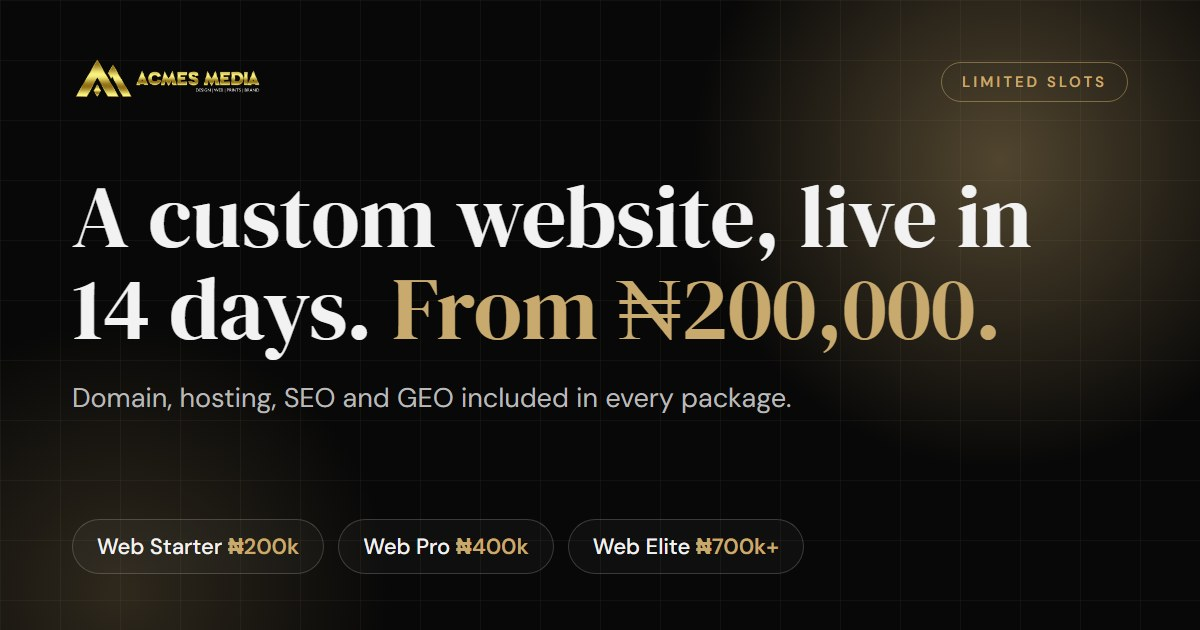
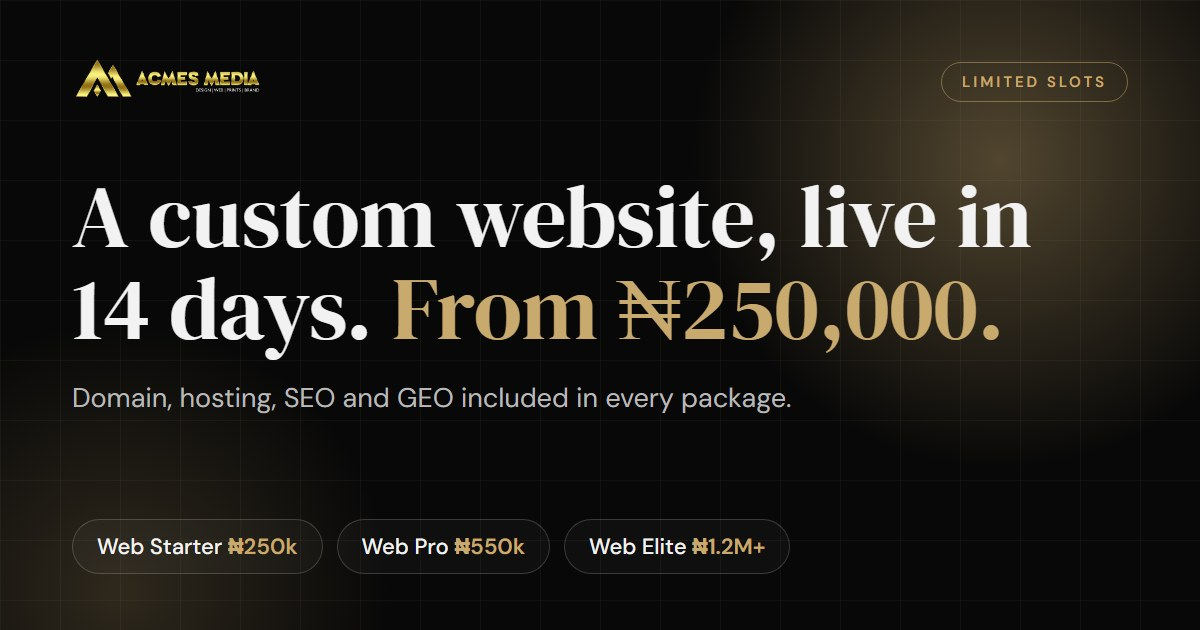
Update package pricing and Elite add-ons
- Starter ₦250k, Pro ₦550k (8 pages), Elite from ₦1.2M
- Elite: 1 hour a month priority support for 6 months; optional add-on names
  listed without prices (e-commerce, chatbot, booking system, CRM)
- FAQ: hourly technical maintenance, add-on scoping, managed services
- Payload handles Elite price without a deposit split
- Refreshed Open Graph share image with the new prices

diff --git a/src/data/sales.js b/src/data/sales.js
@@ -86,12 +86,12 @@ export const packages = [
     tier: 'Starter',
     name: 'Web Starter',
     blurb: 'Your first real web presence, built clean and fast around your brand.',
-    price: '₦200k',
-    priceNgn: 200000,
-    depositNgn: 140000,
-    balanceNgn: 60000,
+    price: '₦250k',
+    priceNgn: 250000,
+    depositNgn: 175000,
+    balanceNgn: 75000,
     delivery: '2 weeks',
-    deposit: 'Deposit to start: ₦140,000',
+    deposit: 'Deposit to start: ₦175,000',
     terms: 'One-time payment. Live in 2 weeks.',
     features: [
       'Up to 5 pages',
@@ -104,17 +104,17 @@ export const packages = [
     id: 'pro',
     tier: 'Most popular',
     name: 'Web Pro',
-    blurb: 'For businesses that need to look established at first glance. Up to 10 pages on a design system built around your brand.',
-    price: '₦400k',
-    priceNgn: 400000,
-    depositNgn: 280000,
-    balanceNgn: 120000,
+    blurb: 'For businesses that need to look established at first glance. Up to 8 pages on a design system built around your brand.',
+    price: '₦550k',
+    priceNgn: 550000,
+    depositNgn: 385000,
+    balanceNgn: 165000,
     delivery: '3 weeks',
-    deposit: 'Deposit to start: ₦280,000',
+    deposit: 'Deposit to start: ₦385,000',
     terms: 'One-time payment. Live in 3 weeks.',
     featured: true,
     features: [
-      'Up to 10 pages',
+      'Up to 8 pages',
       'Custom UI design system',
       'Blog or portfolio section',
       'Sitemap + analytics integration',
@@ -126,8 +126,9 @@ export const packages = [
     tier: 'Full stack',
     name: 'Web Elite',
     blurb: 'Brand identity and website in one engagement, for businesses building something to last.',
-    price: '₦700k+',
-    priceNgn: null,
+    price: '₦1.2M+',
+    priceNgn: 1200000,
+    open: true,
     delivery: 'Scoped on the call',
     deposit: 'Payments agreed on the call',
     terms: 'Custom scope, milestone payments.',
@@ -135,8 +136,14 @@ export const packages = [
       'Full brand identity system',
       'Custom web design + build',
       'Content strategy',
-      'E-commerce ready (optional)',
-      'Priority support for 6 months',
+      'Priority support: 1 hour a month for 6 months',
+    ],
+    // Names only on the page. Prices live in docs/pricing-and-terms.md.
+    addons: [
+      'E-commerce ready',
+      'Chatbot integration',
+      'Automated booking system',
+      'Custom CRM + leads automation',
     ],
   },
 ];
@@ -201,7 +208,7 @@ export const faqs = [
   },
   {
     q: 'Can I edit the site myself after launch?',
-    a: 'Yes. You can change text and images without a developer. For bigger changes, we offer a monthly maintenance plan or one-off updates billed hourly.',
+    a: 'Yes. You can change text and images without a developer. For bigger changes and technical maintenance after launch, we bill by the hour.',
   },
   {
     q: 'How do payments work?',
@@ -209,7 +216,11 @@ export const faqs = [
   },
   {
     q: 'Can you connect my site to WhatsApp, Airtable or AI tools?',
-    a: 'Yes. Acmes Media’s founder, Obaloluwa Adeleke, also builds workflow automations (see the portfolio above). Tell us what you want on the scoping call and we will scope it with you, usually as part of Web Elite.',
+    a: 'Yes. Chatbots, automated booking systems and CRM and lead automations are optional add-ons, usually part of a Web Elite project. Tell us what you need on the scoping call and we will scope and quote it.',
+  },
+  {
+    q: 'Can you run these systems for us after they are built?',
+    a: 'Yes. Acmes Media can manage your booking system, CRM or AI chatbot for you as an ongoing service, so you do not need your own technical person. We agree the scope and the cost with you first.',
   },
   {
     q: 'Why only 10 slots?',
@@ -233,9 +244,9 @@ export const heardOptions = [
 ];
 
 export const packageOptions = [
-  'Web Starter (₦200k)',
-  'Web Pro (₦400k)',
-  'Web Elite (₦700k+)',
+  'Web Starter (₦250k)',
+  'Web Pro (₦550k)',
+  'Web Elite (₦1.2M+)',
   'Not sure yet',
 ];
 

diff --git a/src/pages/Sales.jsx b/src/pages/Sales.jsx
@@ -2,7 +2,7 @@ import { useEffect, useRef, useState } from 'react';
 import { motion, useReducedMotion } from 'framer-motion';
 import { motionTokens } from '@/lib/motion-tokens';
 import useIsDesktop from '@/hooks/useIsDesktop';
-import { ArrowUpRight, Check, Globe, Mail, MessageCircle, Search, Send, Sparkles } from 'lucide-react';
+import { ArrowUpRight, Check, Globe, Mail, MessageCircle, Plus, Search, Send, Sparkles } from 'lucide-react';
 import Seo from '@/components/ui/Seo';
 import RevealWrapper from '@/components/ui/RevealWrapper';
 import HeroReveal from '@/components/ui/HeroReveal';
@@ -49,7 +49,7 @@ export default function Sales() {
   return (
     <div className="min-h-screen bg-bg text-ink">
       <Seo
-        title="Get a Professional Website From ₦200,000 | Acmes Media"
+        title="Get a Professional Website From ₦250,000 | Acmes Media"
         description="Custom websites for Nigerian businesses. Domain, hosting, SEO and GEO included in every package. Web Starter sites go live in 14 days. Only 10 project slots open."
         path="/sales"
         image="/og-sales.jpg"
@@ -118,7 +118,7 @@ function Hero() {
         <HeroReveal delay={0.5}>
           <p className="body-lg max-w-2xl mb-8">
             Acmes Media builds custom websites for Nigerian businesses. Domain, hosting and SEO + GEO setup come included
-            in every package, and Web Starter sites go live in 14 days, from ₦200,000.
+            in every package, and Web Starter sites go live in 14 days, from ₦250,000.
           </p>
         </HeroReveal>
 
@@ -377,6 +377,19 @@ function Packages() {
                     </li>
                   ))}
                 </ul>
+                {pkg.addons && (
+                  <div className="mb-8 pt-5 border-t border-border">
+                    <p className="label-tag mb-3">Optional add-ons</p>
+                    <ul className="space-y-2">
+                      {pkg.addons.map((a) => (
+                        <li key={a} className="flex items-start gap-2 text-sm text-ink-muted">
+                          <Plus size={14} className="text-accent mt-0.5 shrink-0" aria-hidden="true" />
+                          {a}
+                        </li>
+                      ))}
+                    </ul>
+                  </div>
+                )}
                 <a href="#book" onClick={onCta('package', { package: pkg.id })} className={`${pkg.featured ? 'btn-primary' : 'btn-ghost'} justify-center`}>
                   {isClosed ? 'Join waiting list' : `Book ${pkg.name}`}
                 </a>
@@ -462,6 +475,7 @@ const MAKE_WEBHOOK = import.meta.env.VITE_MAKE_WEBHOOK_URL;
 function buildPayload(form) {
   const pkg = packages.find((p) => form.package.startsWith(p.name));
   const hasPrice = Boolean(pkg?.priceNgn);
+  const hasSplit = Boolean(pkg?.depositNgn);
   return {
     _subject: 'Sales page inquiry',
     source: 'sales-page',
@@ -470,10 +484,10 @@ function buildPayload(form) {
     email: form.email.trim(),
     package_id: pkg?.id ?? 'unsure',
     package_name: pkg?.name ?? 'Not sure yet',
-    price: hasPrice ? naira(pkg.priceNgn) : 'Custom, agreed on the call',
-    deposit: hasPrice ? naira(pkg.depositNgn) : 'Agreed on the call',
-    balance: hasPrice ? naira(pkg.balanceNgn) : 'Agreed on the call',
-    payment_plan: hasPrice
+    price: hasPrice ? `${naira(pkg.priceNgn)}${pkg.open ? '+' : ''}` : 'Custom, agreed on the call',
+    deposit: hasSplit ? naira(pkg.depositNgn) : 'Agreed on the call',
+    balance: hasSplit ? naira(pkg.balanceNgn) : 'Agreed on the call',
+    payment_plan: hasSplit
       ? `70% (${naira(pkg.depositNgn)}) to begin, 30% (${naira(pkg.balanceNgn)}) on launch day`
       : 'Milestone payments agreed on the scoping call',
     delivery: pkg?.delivery ?? 'Agreed on the call',

diff --git a/src/components/home/SalesBanner.jsx b/src/components/home/SalesBanner.jsx
@@ -80,7 +80,7 @@ export default function SalesBanner() {
                     </span>
                     <h2 id="sales-banner-heading" className="heading-xl mb-4">
                       A custom website, live in 14 days.{' '}
-                      <em className="text-accent not-italic whitespace-nowrap">From ₦200,000.</em>
+                      <em className="text-accent not-italic whitespace-nowrap">From ₦250,000.</em>
                     </h2>
                     <p className="body-lg mb-6 max-w-xl">
                       We’re open to 10 website projects right now. Every site is designed and built from scratch on your brand.
